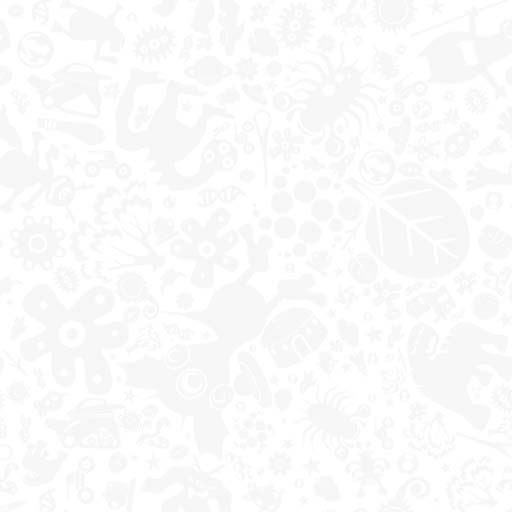
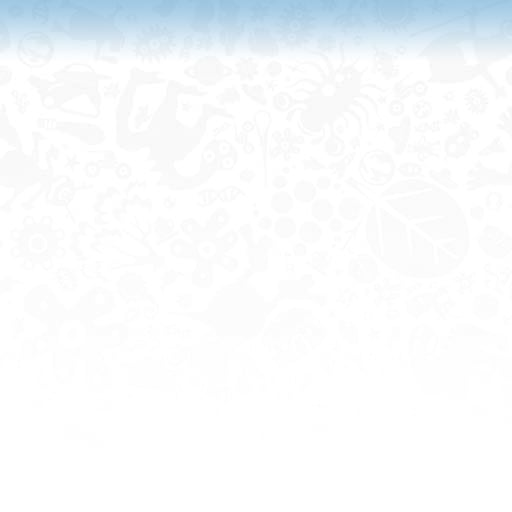
novo estilo de fundo

Changed region(s): [[0.0, 0.0, 1.0, 0.0938]]

diff --git a/assets/css/screen.scss b/assets/css/screen.scss
@@ -4,11 +4,17 @@
 
 $base-font-family: "SPORE", sans-serif;
 $content-font-family: "esporo-body", sans-serif;
-$base-font-size: 15px;
-$color-accent: #4e9dd8;
+$color-accent: #2987c7;
 
 @import "fonts";
 @import "{{ site.theme }}";
+
+body {
+  border-top: 4px solid $color-accent;
+  background-image: url("/assets/images/bg.jpg");
+  background-position: center top;
+  background-repeat: repeat-x;
+}
 
 .main_menu {
   ul {
